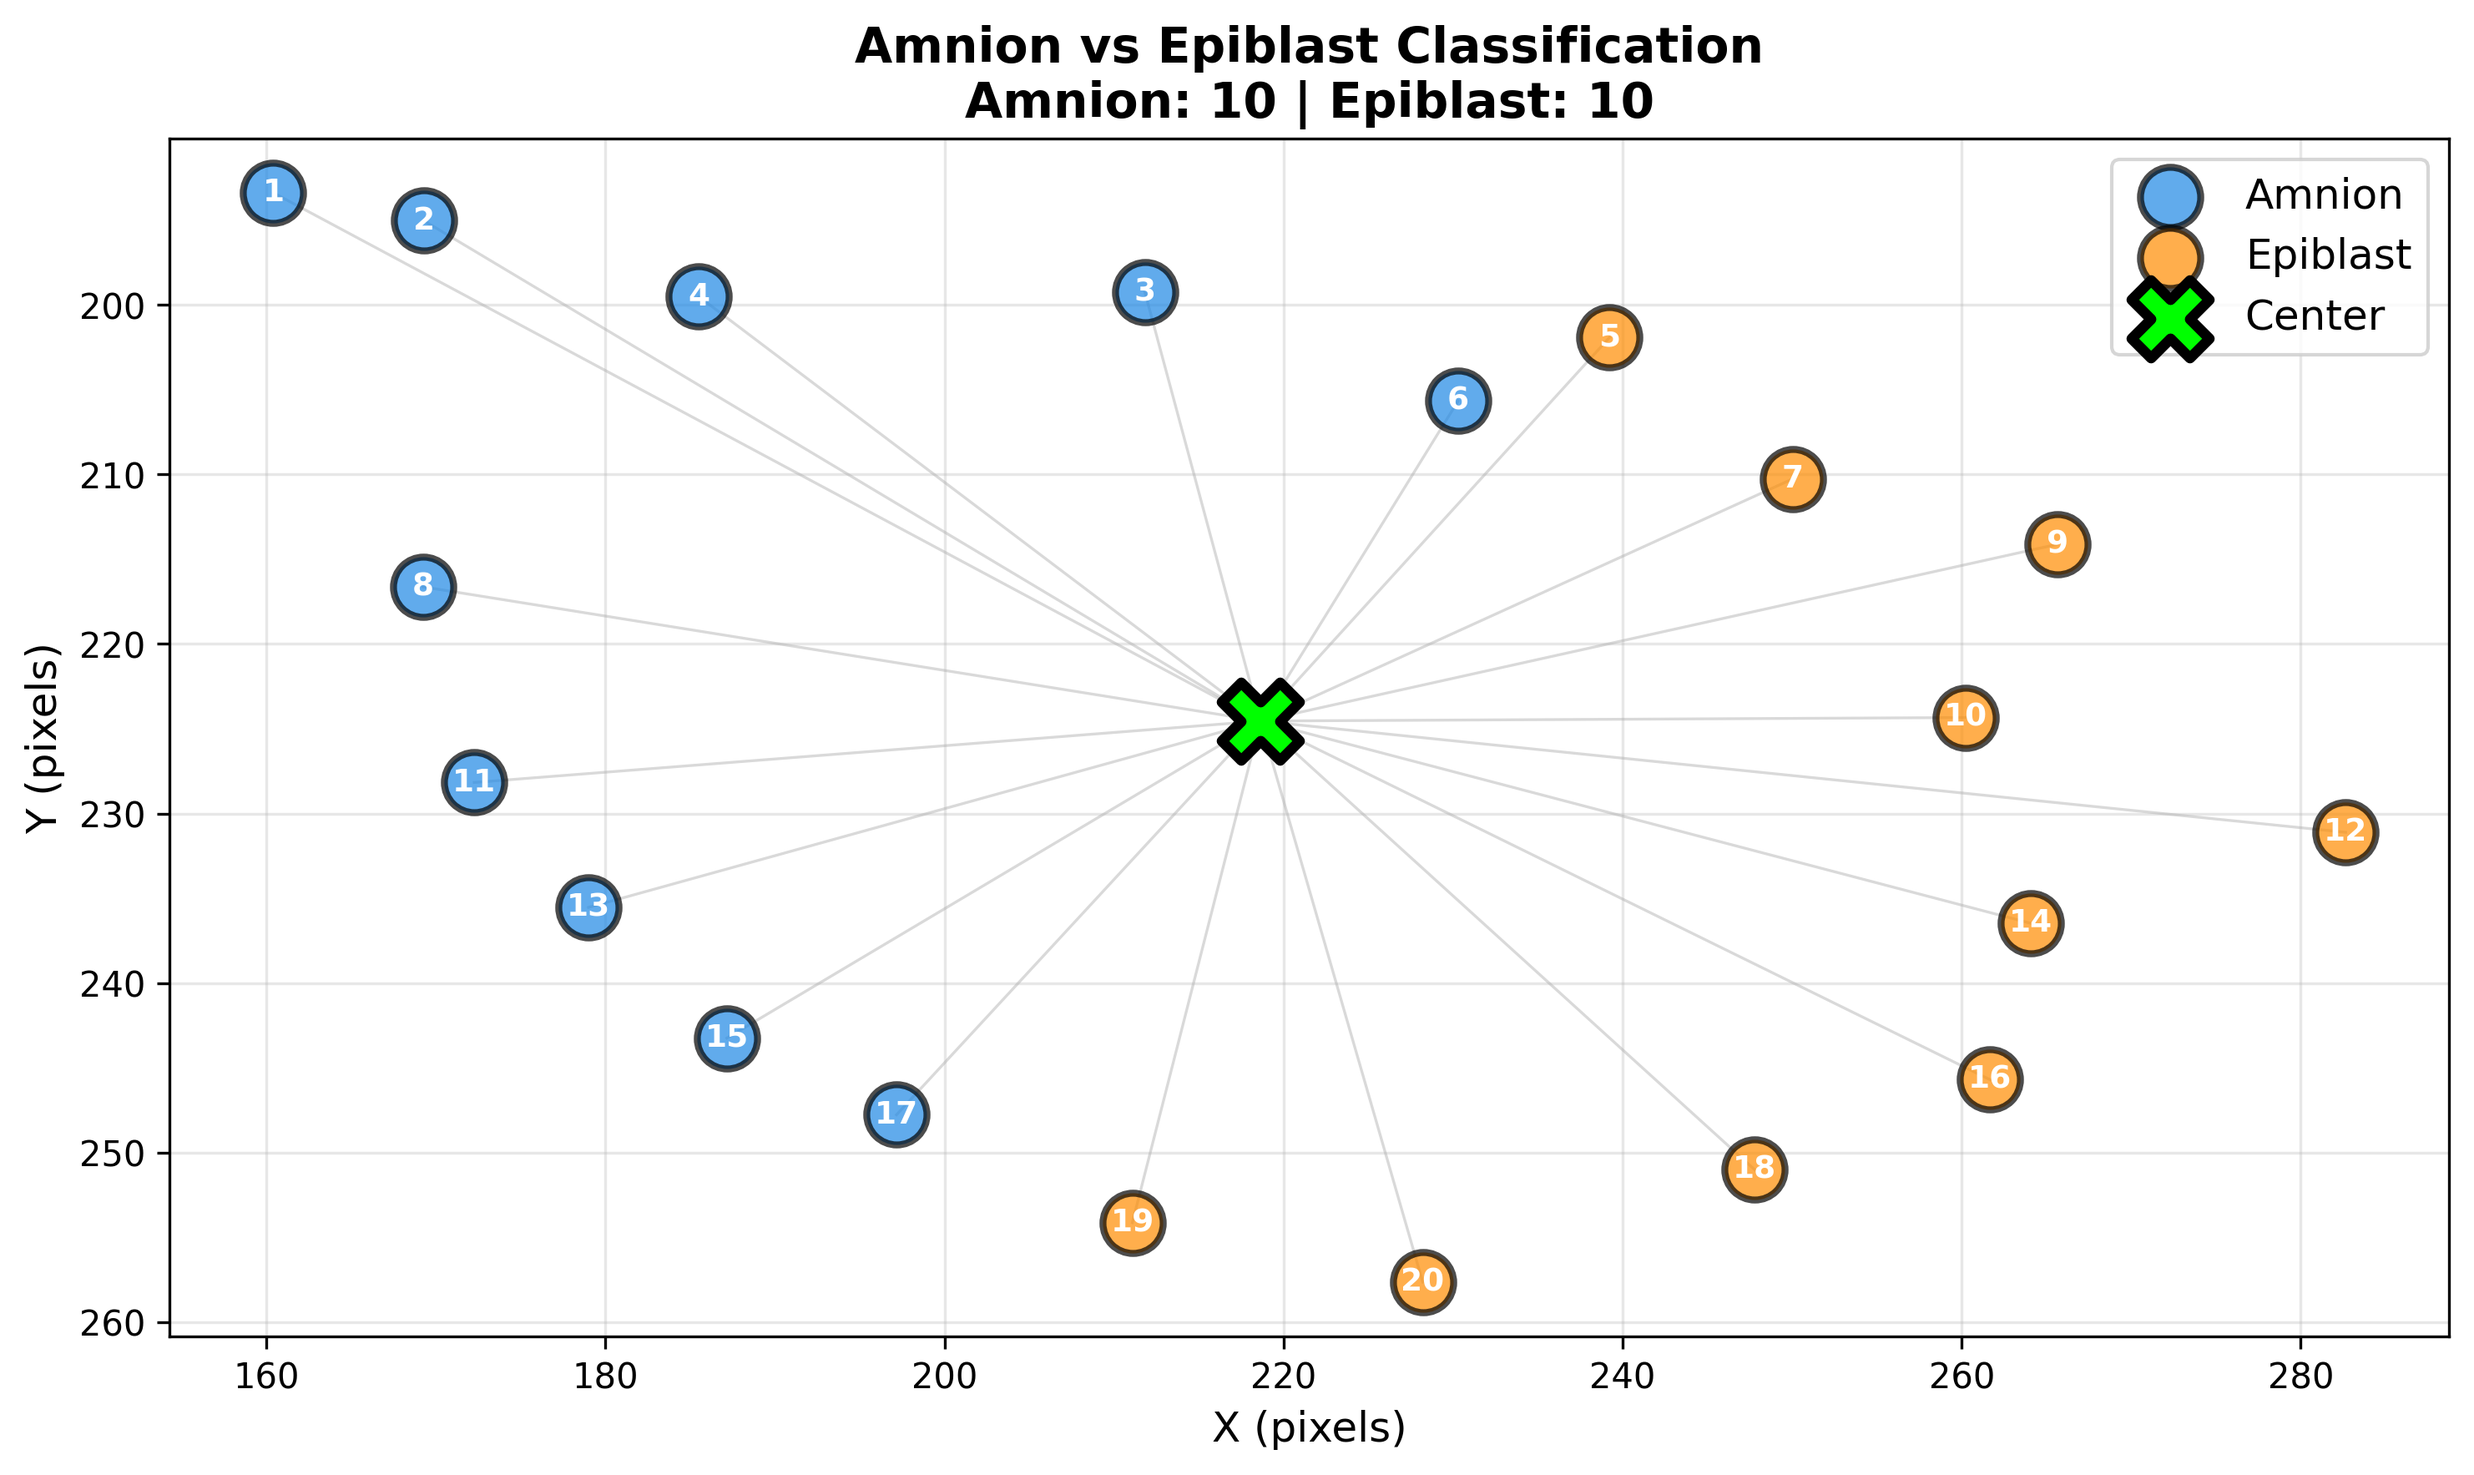
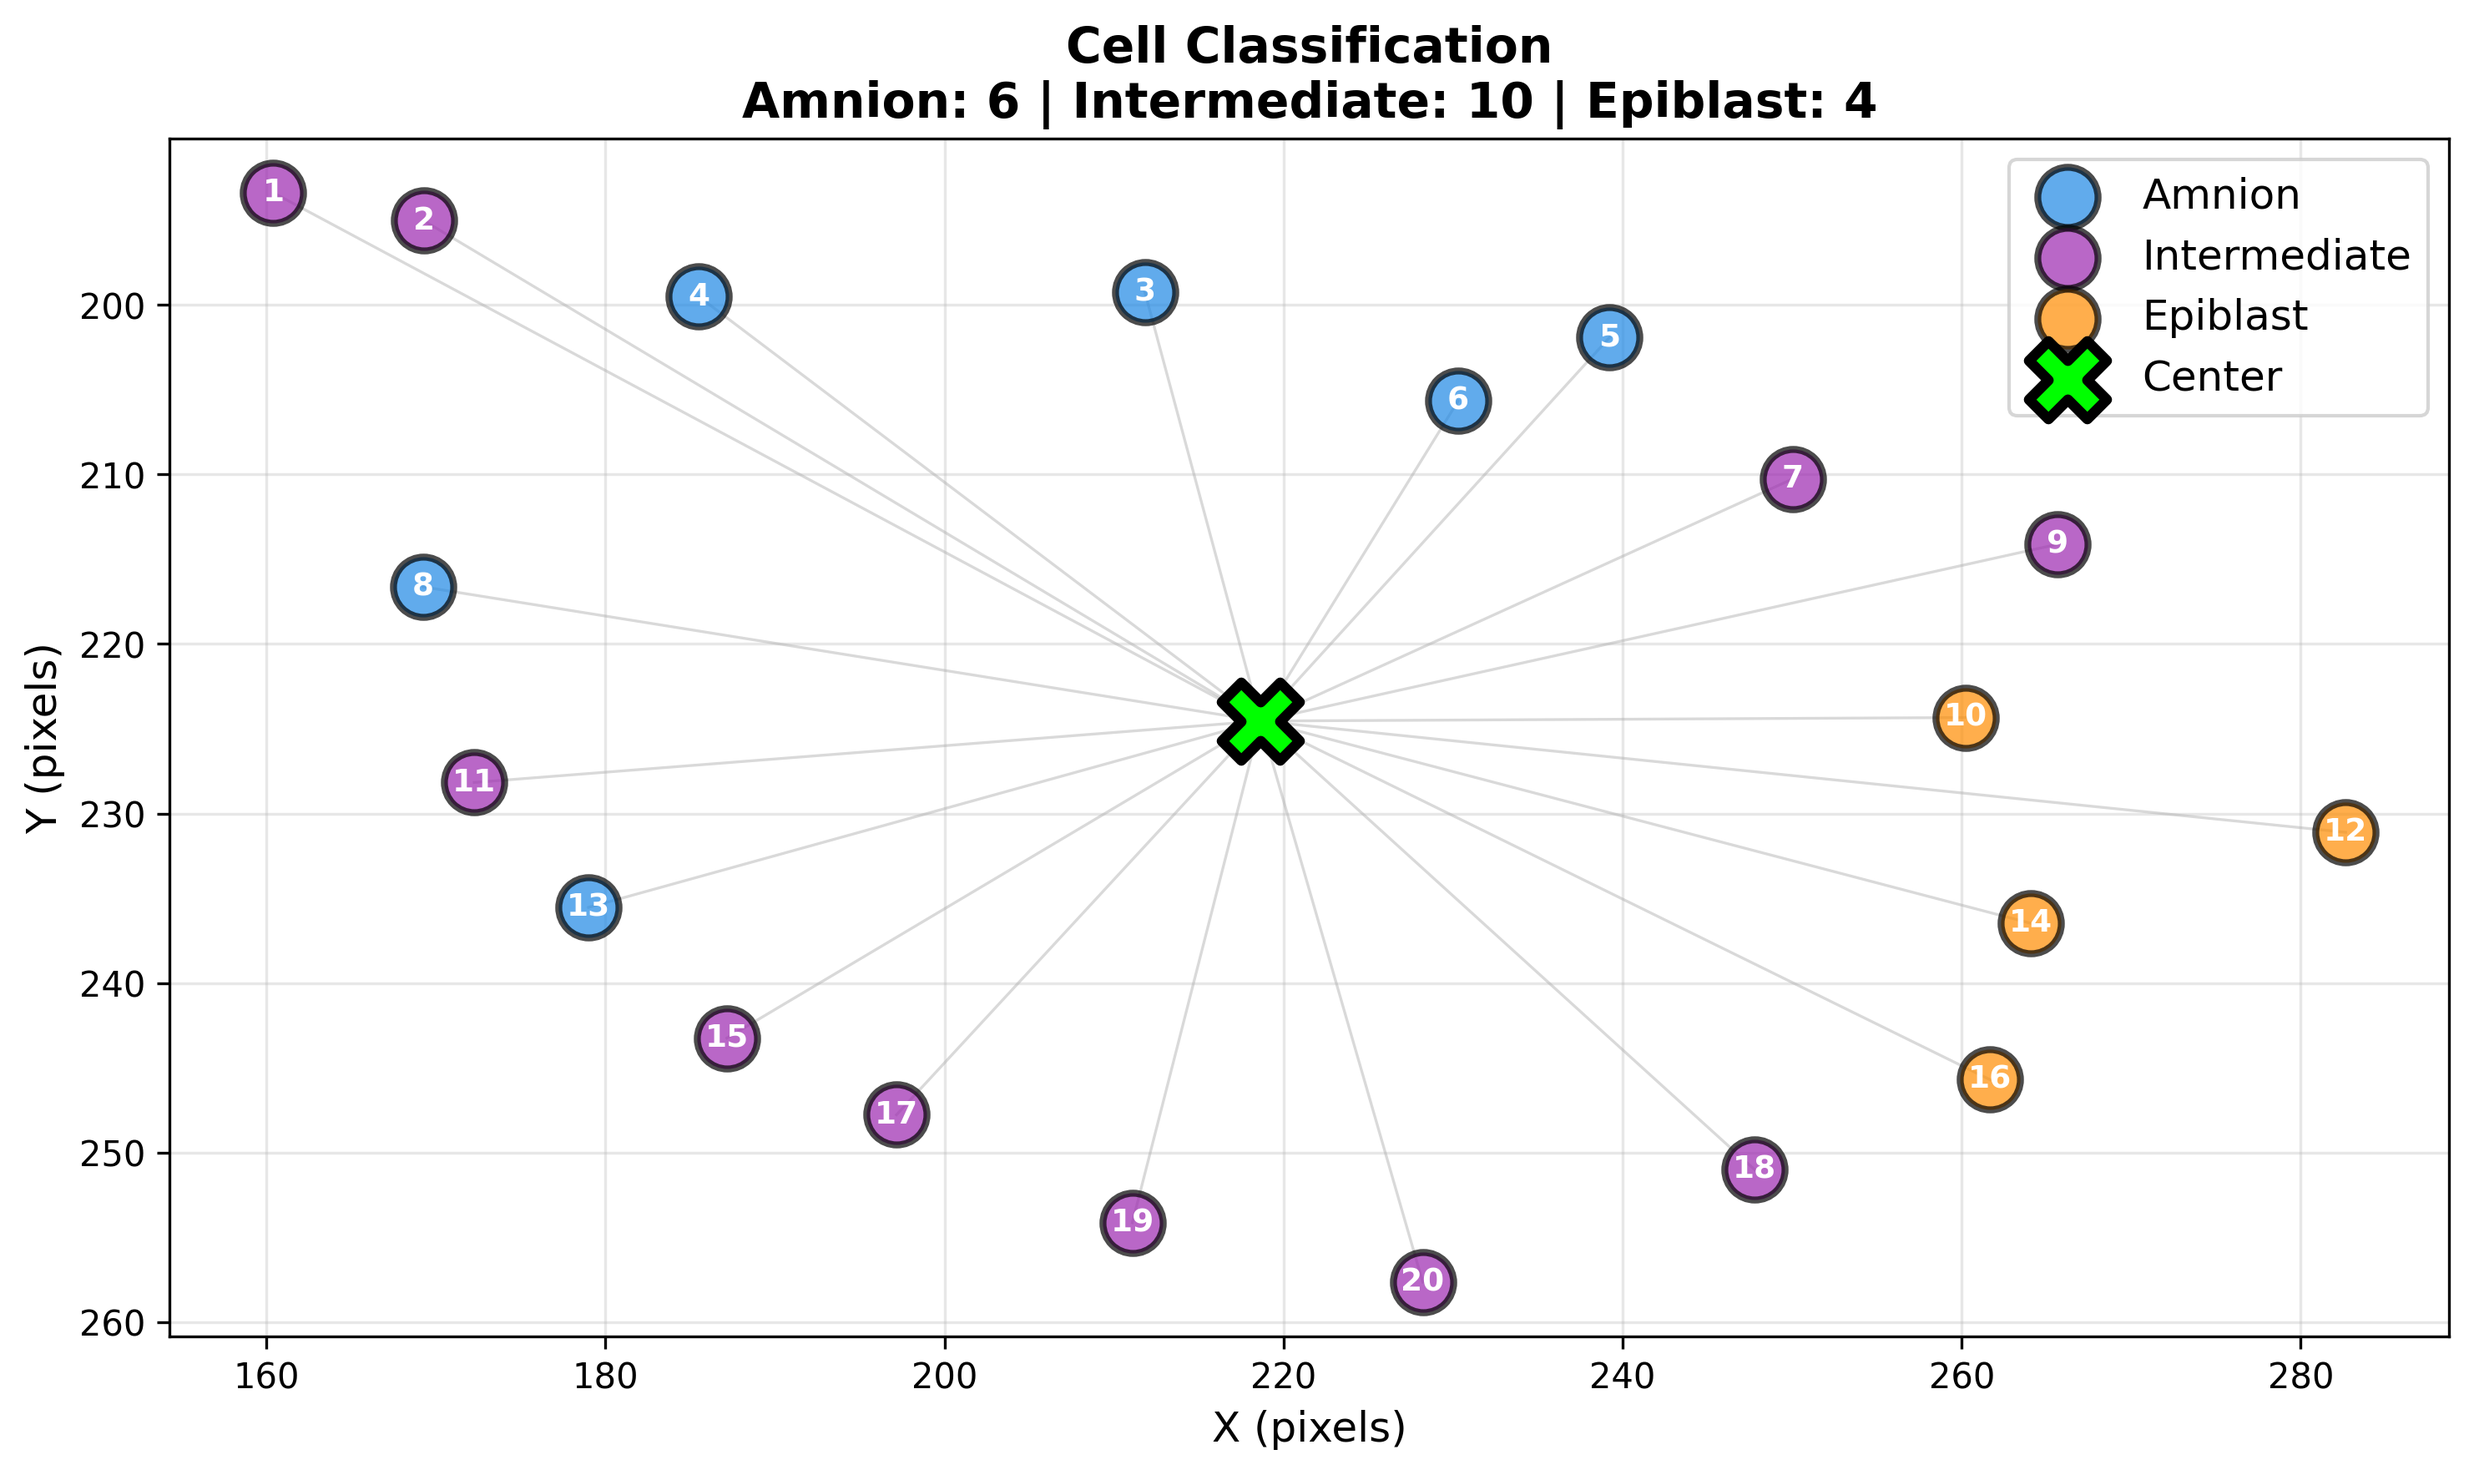
update nuclei classification plots

diff --git a/amnion-epiblast-positioning/scripts/amnion-epiblast-plot.py b/amnion-epiblast-positioning/scripts/amnion-epiblast-plot.py
@@ -1,26 +1,33 @@
 #!/usr/bin/env python3
 """
-Simple plot of amnion vs epiblast nuclei.
-Blue = Amnion, Orange = Epiblast
+Simple plot of amnion, intermediate, and epiblast nuclei.
+Blue = Amnion, Purple = Intermediate, Orange = Epiblast
 """
 
 import csv
 import matplotlib
 matplotlib.use('Agg')
 import matplotlib.pyplot as plt
+import os
+
+# Get directory where this script is located
+SCRIPT_DIR = os.path.dirname(os.path.abspath(__file__))
+DATA_DIR = os.path.join(SCRIPT_DIR, '..', 'data')
 
 # Files to process
 INPUT_FILES = [
-    "17s1z20-segmentation.csv",
-    "18s1z14-segmentation.csv",
-    "18s2z9-segmentation.csv"
+    os.path.join(DATA_DIR, "17s1z20-segmentation.csv"),
+    os.path.join(DATA_DIR, "18s1z14-segmentation.csv"),
+    os.path.join(DATA_DIR, "18s2z9-segmentation.csv")
 ]
 
 def plot_classification(input_csv):
     """Create plot for a single segmentation file."""
     
-    # Generate output filename
-    output = input_csv.replace('-segmentation.csv', '-amnion-epiblast-plot.png')
+    # Generate output filename (save one folder up from data/)
+    basename = os.path.basename(input_csv).replace('-segmentation.csv', '-amnion-epiblast-plot.png')
+    parent_dir = os.path.dirname(os.path.dirname(input_csv))
+    output = os.path.join(parent_dir, basename)
     
     # Read nuclei
     nuclei = []
@@ -31,12 +38,13 @@ def plot_classification(input_csv):
                 'id': len(nuclei) + 1,
                 'x': float(row['X']),
                 'y': float(row['Y']),
-                'is_amnion': row['IsAmnion'].strip().upper() == 'Y'
+                'type': row['EpiblastAmnionIntermediate'].strip().upper()
             })
     
     # Separate by type
-    amnion = [n for n in nuclei if n['is_amnion']]
-    epiblast = [n for n in nuclei if not n['is_amnion']]
+    amnion = [n for n in nuclei if n['type'] == 'A']
+    intermediate = [n for n in nuclei if n['type'] == 'I']
+    epiblast = [n for n in nuclei if n['type'] == 'E']
     
     # Calculate center
     center_x = sum(n['x'] for n in nuclei) / len(nuclei)
@@ -51,6 +59,15 @@ def plot_classification(input_csv):
                   c='#1E88E5', s=300, alpha=0.7, edgecolors='black', 
                   linewidth=2, label='Amnion', zorder=3)
         for n in amnion:
+            ax.text(n['x'], n['y'], str(n['id']), fontsize=9, ha='center', 
+                   va='center', color='white', fontweight='bold', zorder=4)
+    
+    # Plot intermediate (purple)
+    if intermediate:
+        ax.scatter([n['x'] for n in intermediate], [n['y'] for n in intermediate], 
+                  c='#9C27B0', s=300, alpha=0.7, edgecolors='black', 
+                  linewidth=2, label='Intermediate', zorder=3)
+        for n in intermediate:
             ax.text(n['x'], n['y'], str(n['id']), fontsize=9, ha='center', 
                    va='center', color='white', fontweight='bold', zorder=4)
     
@@ -75,8 +92,8 @@ def plot_classification(input_csv):
     # Format
     ax.set_xlabel('X (pixels)', fontsize=12)
     ax.set_ylabel('Y (pixels)', fontsize=12)
-    ax.set_title(f'Amnion vs Epiblast Classification\n'
-                f'Amnion: {len(amnion)} | Epiblast: {len(epiblast)}', 
+    ax.set_title(f'Cell Classification\n'
+                f'Amnion: {len(amnion)} | Intermediate: {len(intermediate)} | Epiblast: {len(epiblast)}', 
                 fontsize=14, fontweight='bold')
     ax.set_aspect('equal')
     ax.invert_yaxis()
@@ -87,10 +104,10 @@ def plot_classification(input_csv):
     plt.savefig(output, dpi=300, bbox_inches='tight')
     plt.close()
     
-    print(f"✓ {input_csv} -> {output}")
-    print(f"  Amnion: {len(amnion)} | Epiblast: {len(epiblast)}")
+    print(f"✓ {os.path.basename(input_csv)} -> {os.path.basename(output)}")
+    print(f"  Amnion: {len(amnion)} | Intermediate: {len(intermediate)} | Epiblast: {len(epiblast)}")
     
-    return len(amnion), len(epiblast)
+    return len(amnion), len(intermediate), len(epiblast)
 
 # Process all files
 print("Processing segmentation files...\n")
